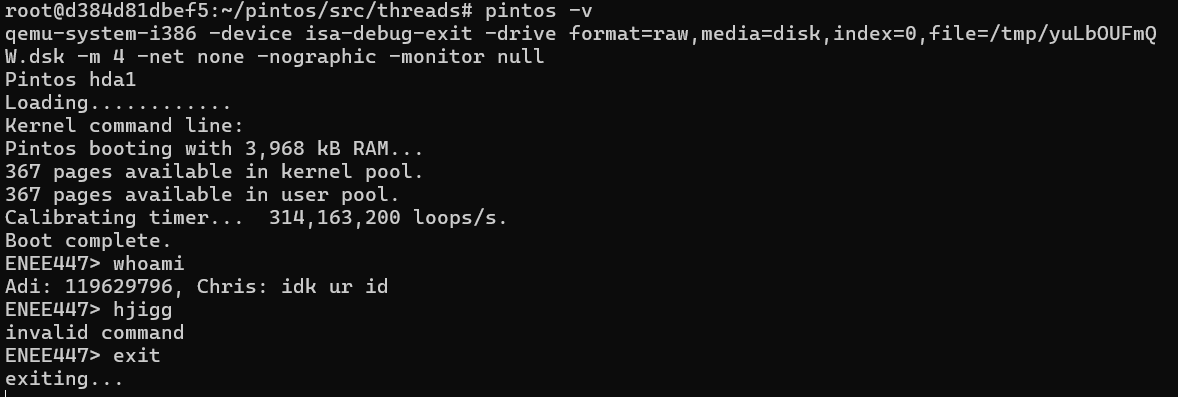
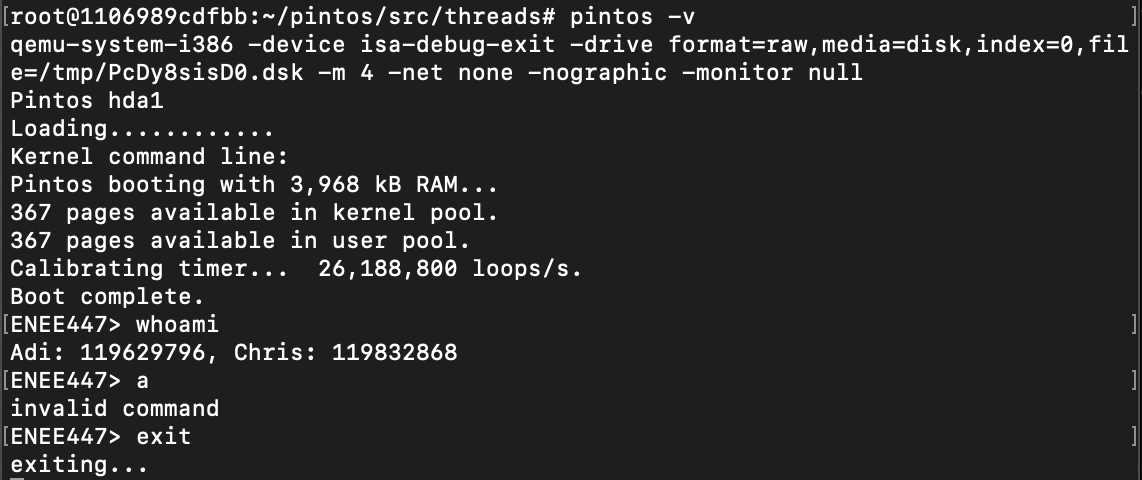
updating uid stuff

diff --git a/src/threads/init.c b/src/threads/init.c
@@ -152,7 +152,7 @@ pintos_init (void)
       line[input_length] = '\0'; // Mark end of string
 
       if (!strcmp(line, "whoami")) {
-        puts("Adi: 119629796, Chris: idk ur id");
+        puts("Adi: 119629796, Chris: 119832868");
       } else if (!strcmp(line, "exit")) {
         puts("exiting...");
         exit = 1;
